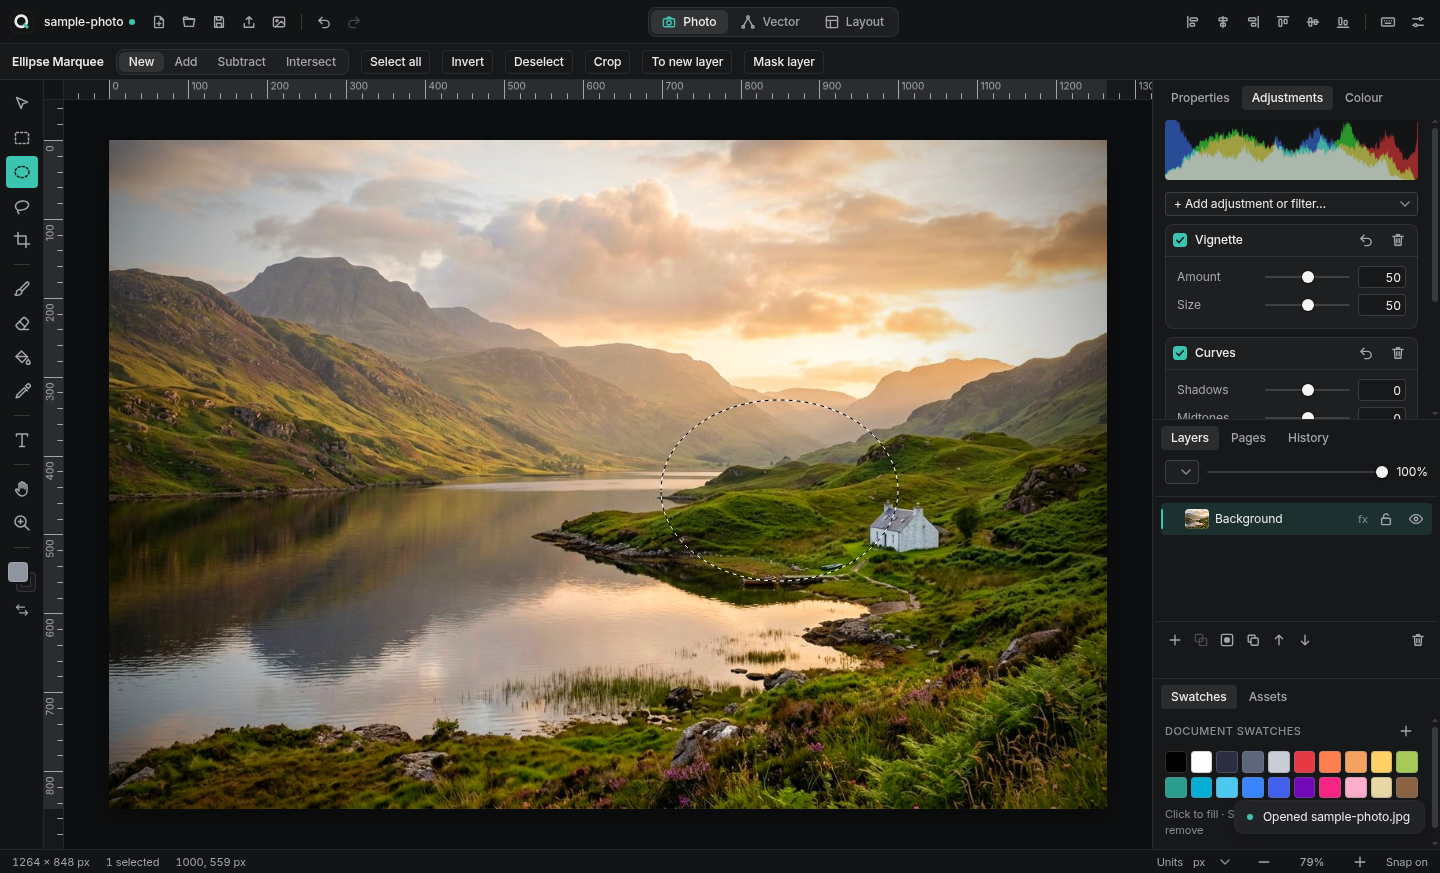
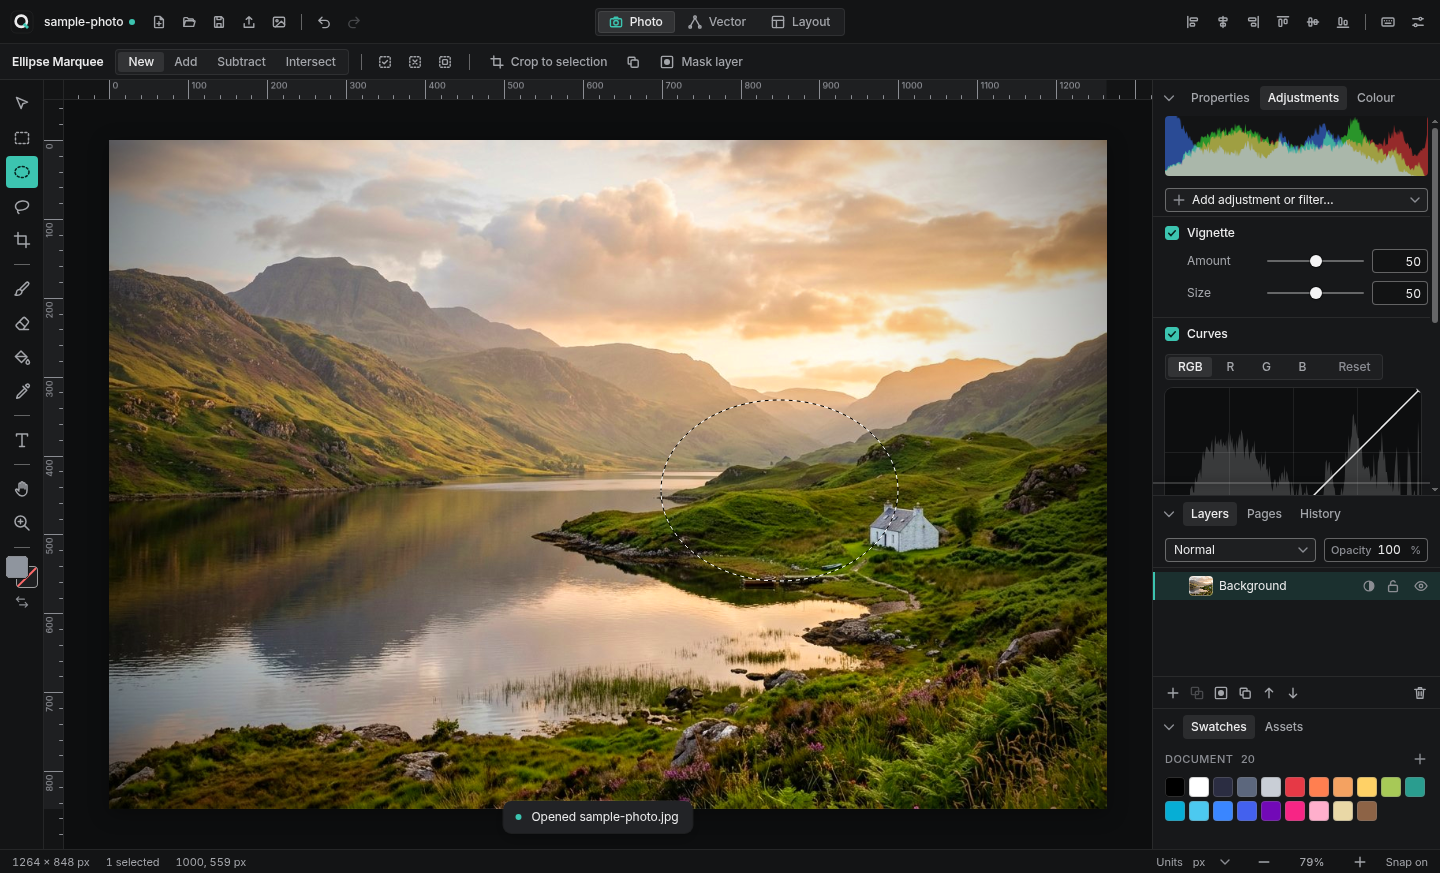
v0.2.0: release notes, version bump, regenerated README screenshots; fill/stroke chip names match tooltips (a11y)

diff --git a/src/renderer/ui/color/Chips.tsx b/src/renderer/ui/color/Chips.tsx
@@ -40,8 +40,8 @@ export function FillStrokeChips({ fill, stroke, target, onTarget, onSwap, size =
         aria-checked={target === t}
         tabIndex={target === t ? 0 : -1}
         className={`chip-btn ${t}${target === t ? ' on' : ''}`}
-        aria-label={`${t === 'fill' ? 'Fill' : 'Stroke'}: ${v.enabled ? v.color : 'none'}`}
-        title={`${t === 'fill' ? 'Fill' : 'Stroke'} (${v.enabled ? v.color.toUpperCase() : 'none'})`}
+        aria-label={`${t === 'fill' ? 'Fill' : 'Stroke'}: ${v.enabled ? v.color.toUpperCase() : 'none'}`}
+        title={`${t === 'fill' ? 'Fill' : 'Stroke'}: ${v.enabled ? v.color.toUpperCase() : 'none'}`}
         onClick={(e) => {
           onTarget(t);
           onOpen?.(t, e.currentTarget);

diff --git a/docs/RELEASE_NOTES.md b/docs/RELEASE_NOTES.md
@@ -1,3 +1,23 @@
+## Quvrelo v0.2.0 — premium redesign
+
+A top-to-bottom redesign of how Quvrelo looks and feels, plus our first in-house machine-learning feature.
+
+### What's new
+- **Design system:** one set of colour, spacing, radius and type tokens across every surface, in Dark, Light and High contrast.
+- **Icons:** a redrawn, consistent icon set and re-rendered app icons that stay crisp at small sizes.
+- **Dialogs:** a shared dialog frame for New Document, Export, Preferences, Keyboard Shortcuts and About.
+- **Welcome screen:** Recent files first with real thumbnails, quick starts per studio and redrawn classroom templates.
+- **Colour picker:** a proper picker with fill/stroke chips, recent colours, number scrub fields and sliders.
+- **Panels:** a rebuilt Layers panel and resizable, collapsible panel groups.
+- **Curves editor:** a real Curves adjustment with draggable points on a histogram, per-channel RGB/R/G/B.
+- **Canvas selection:** selection box and handles in Vector and Layout; the pixel selection (marching ants) only in Photo; one active studio segment in a centred top bar; toasts bottom-centre.
+- **Layout context:** page guides and rulers, and a page-setup context bar (margins, bleed, columns, page navigation).
+- **Accessibility and contrast audit:** every icon button has a name, tooltip and keyboard shortcut for assistive tech; control borders and secondary text meet WCAG 2.2 AA; visible keyboard focus in every theme; reduced-motion respected (including the OS setting).
+- **Flatpak:** Linux builds are now also offered as a Flatpak.
+- **Select Subject (preview):** our first in-house, fully on-device ML model (v0). In the Photo studio, **Select ▸ Select Subject** makes a pixel selection of the main subject. This is an **early model**: it scores 0.458 mean IoU on our held-out test set, so expect blotchy or incomplete edges and refine the selection by hand. It runs offline, sends nothing anywhere, and falls back to a simple colour-based selection if the model can't load. Better models will follow.
+
+---
+
 ## Quvrelo — first public preview
 
 Photo editing, vector design and page layout in **one** offline app, built for schools and professional teams.
